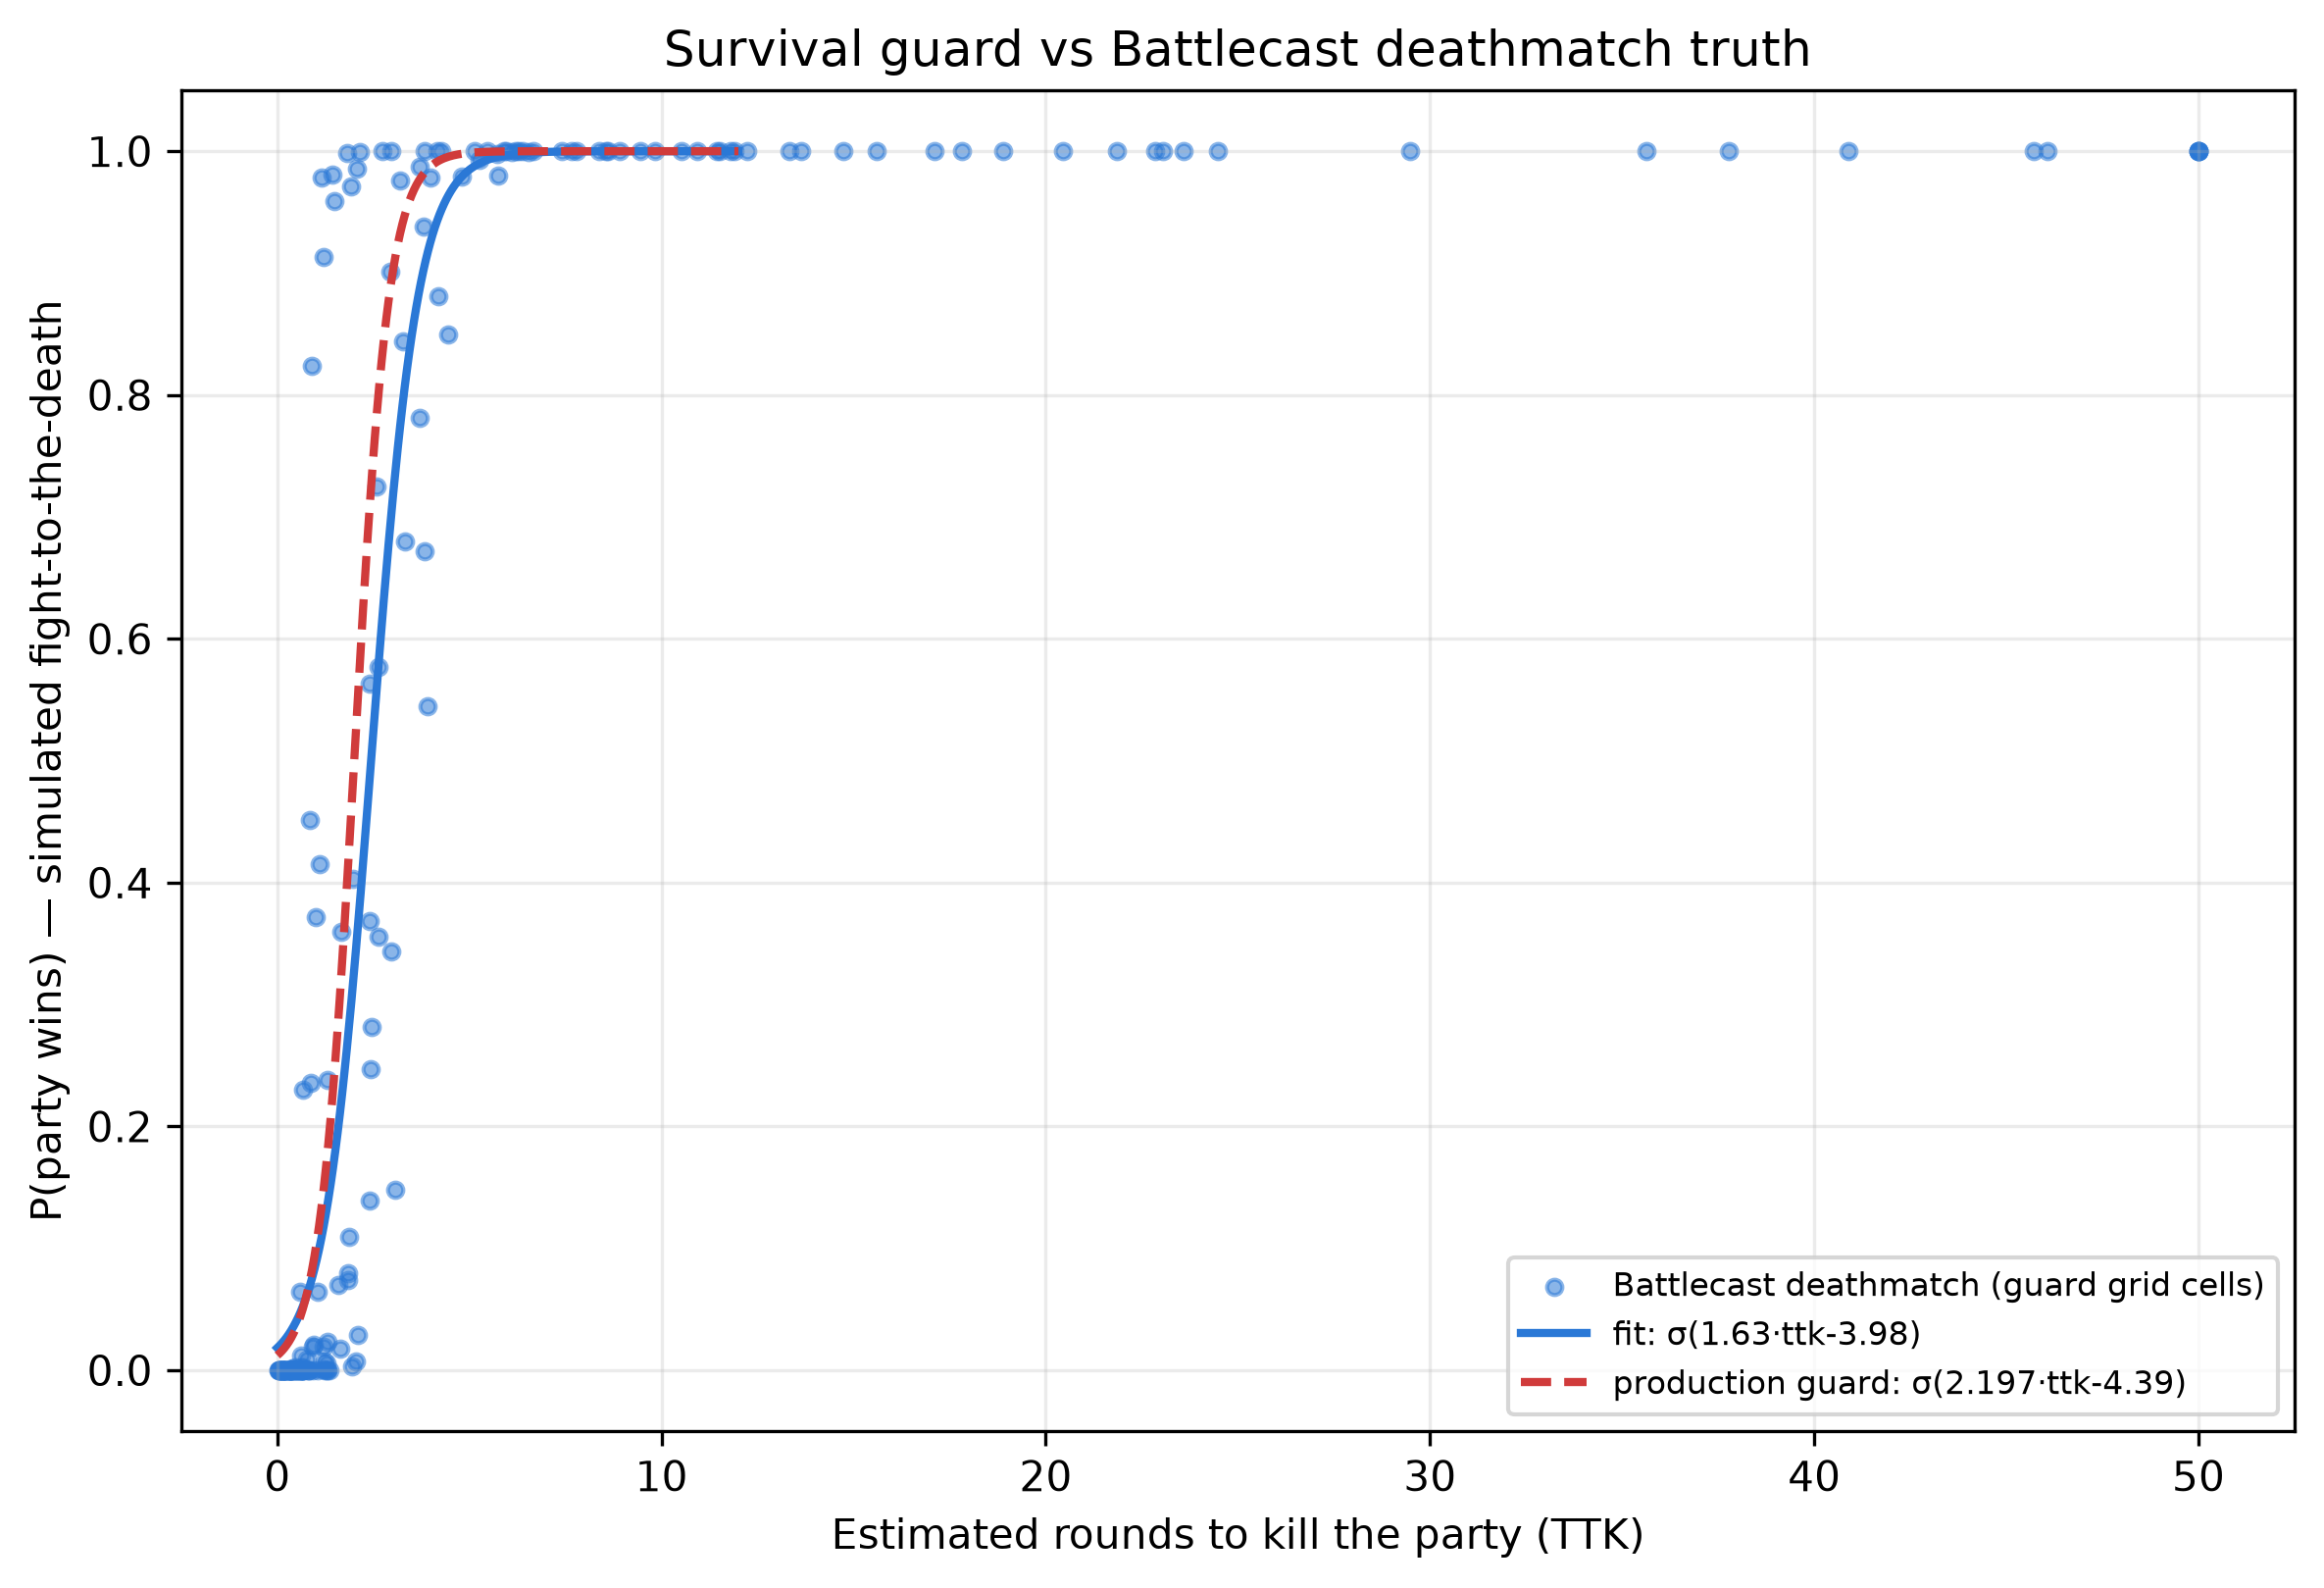
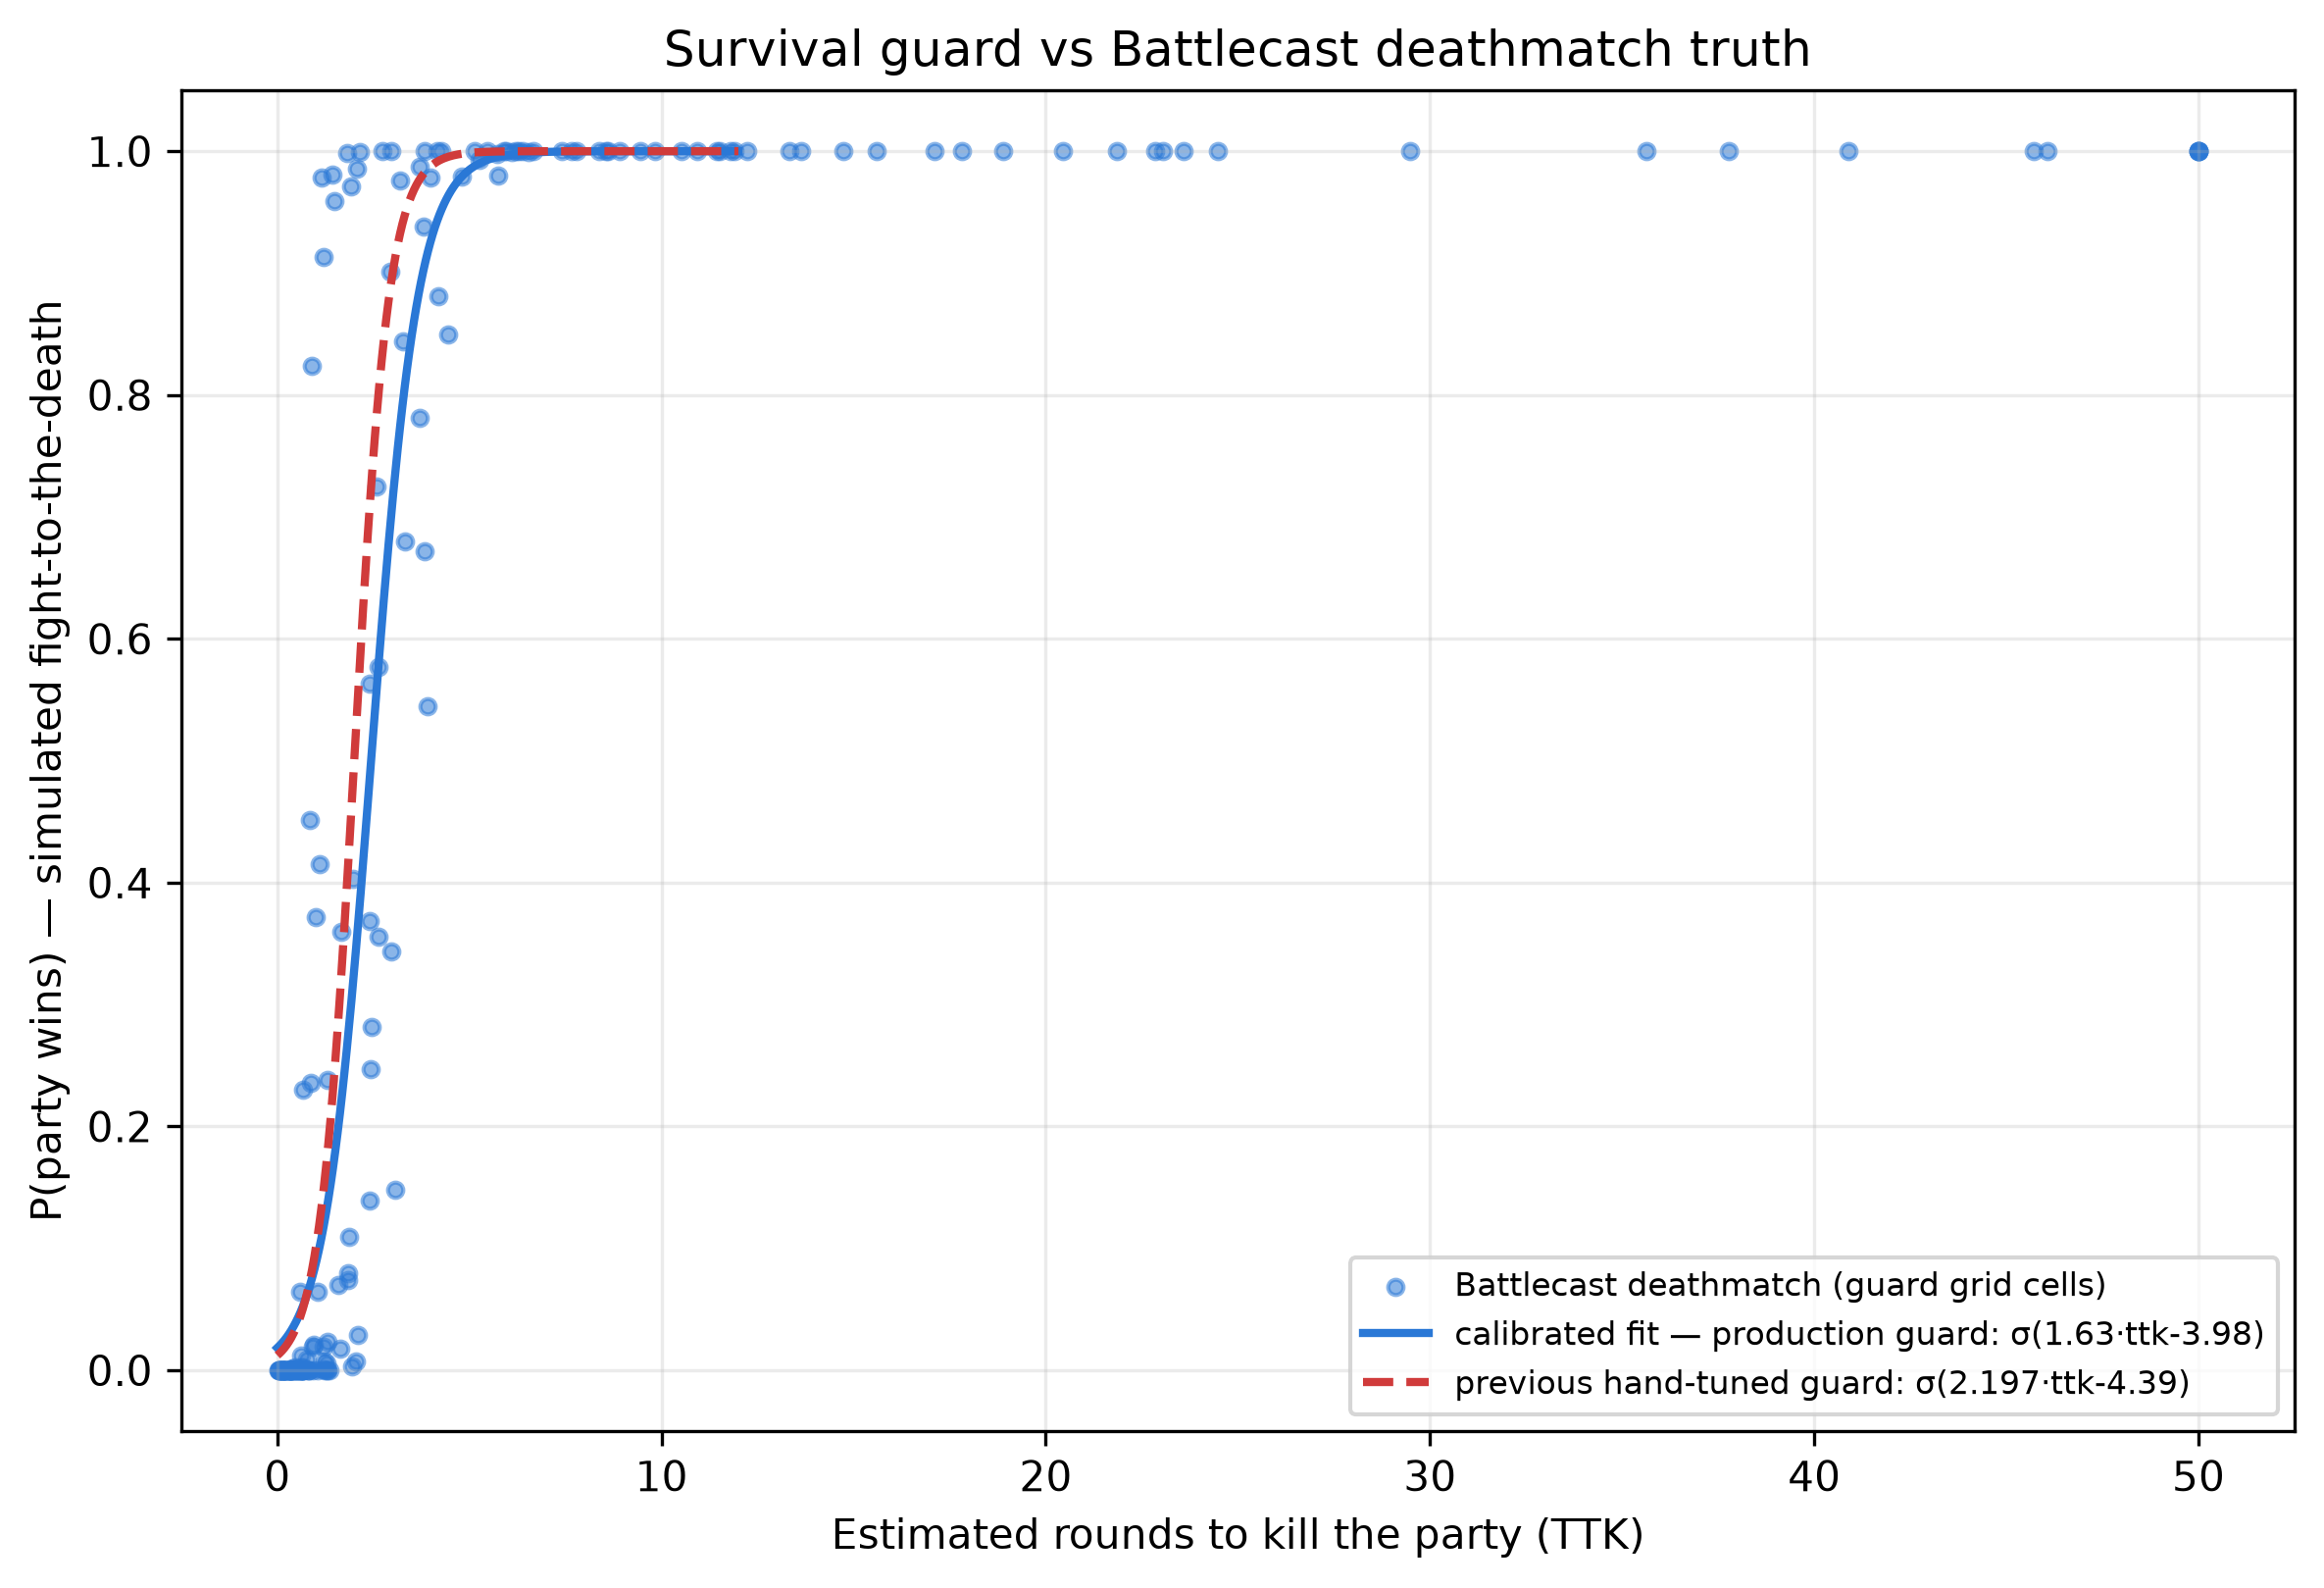
Audit pass: figure/doc consistency for the Battlecast work
- analyze.py: freeze the ORIGINAL hand-tuned guard constants as the
  historical comparison (it was importing the live production constants
  and labeling them 'hand-tuned' — after the calibration swap a rerun
  would have plotted two identical curves); add a consistency check that
  warns when production constants drift from the grid fit; regenerate
  battlecast_guard_fit.png with honest labels
- README/README_IT: correct the guard-grid CR list ({2,5,10,15,21} — the
  '180 cells' only works with 5 tiers); document the mercy and OOD grids
  honestly (systematic SRD sweep, NOT a replay of logged encounters,
  correcting the earlier commit message's claim); reference the
  previously-orphaned figures (logistic_coefficients as the confounding
  exhibit — num_monsters/total_dpr/burst positive, avg_party_level
  NEGATIVE); add a full figure index; file-structure tree now includes
  battlecast_bridge/, tests/, Makefile, behavior_suite, model_comparison
- 61 unit tests + 13 behavior checks pass

Changed region(s): [[0.562, 0.803, 0.9679, 0.8956]]

diff --git a/battlecast_bridge/analyze.py b/battlecast_bridge/analyze.py
@@ -45,8 +45,15 @@ import __main__
 import joblib
 
 from initial_learn import DnDFeatureEngineer, FEATURE_COLUMNS, RAW_INPUT_COLUMNS
-from lethality_engine import _GUARD_A as GUARD_SLOPE
-from lethality_engine import _GUARD_B as GUARD_INTERCEPT
+from lethality_engine import _GUARD_A as PRODUCTION_SLOPE
+from lethality_engine import _GUARD_B as PRODUCTION_INTERCEPT
+
+# The ORIGINAL hand-tuned anchors (pre-calibration, 2026-07-09): frozen here
+# as the historical comparison line.  Production constants now live in
+# lethality_engine and are EXPECTED to equal this script's fit — main()
+# verifies that and warns if they drift (e.g. after regenerating the grid).
+HAND_TUNED_SLOPE = 2.197
+HAND_TUNED_INTERCEPT = -4.394
 from lethality_engine import MonsterProfile, encounter_row
 
 __main__.DnDFeatureEngineer = DnDFeatureEngineer
@@ -135,13 +142,22 @@ def main() -> int:
     summary["guard_fit"] = {
         "slope": a_fit,
         "intercept": b_fit,
-        "hand_tuned_slope": GUARD_SLOPE,
-        "hand_tuned_intercept": GUARD_INTERCEPT,
+        "production_slope": PRODUCTION_SLOPE,
+        "production_intercept": PRODUCTION_INTERCEPT,
+        "original_hand_tuned_slope": HAND_TUNED_SLOPE,
+        "original_hand_tuned_intercept": HAND_TUNED_INTERCEPT,
     }
     print(
         f"Guard fit on deathmatch truth: sigma({a_fit:.3f}*ttk {b_fit:+.3f}) "
-        f"(hand-tuned: sigma({GUARD_SLOPE}*ttk {GUARD_INTERCEPT:+.3f}))"
+        f"(original hand-tuned: sigma({HAND_TUNED_SLOPE}*ttk {HAND_TUNED_INTERCEPT:+.3f}))"
     )
+    # Consistency check: the deployed constants should BE this fit.
+    if abs(a_fit - PRODUCTION_SLOPE) > 0.05 or abs(b_fit - PRODUCTION_INTERCEPT) > 0.1:
+        print(
+            f"⚠️  Production guard sigma({PRODUCTION_SLOPE}*ttk "
+            f"{PRODUCTION_INTERCEPT:+.3f}) no longer matches this fit — "
+            f"update _GUARD_A/_GUARD_B in lethality_engine.py."
+        )
 
     fig, ax = plt.subplots(figsize=(8, 5.5), dpi=300)
     ax.scatter(
@@ -158,15 +174,15 @@ def main() -> int:
         1 / (1 + np.exp(-(a_fit * xs + b_fit))),
         color=BLUE,
         lw=2,
-        label=f"fit: σ({a_fit:.2f}·ttk{b_fit:+.2f})",
+        label=f"calibrated fit — production guard: σ({a_fit:.2f}·ttk{b_fit:+.2f})",
     )
     ax.plot(
         xs,
-        1 / (1 + np.exp(-(GUARD_SLOPE * xs + GUARD_INTERCEPT))),
+        1 / (1 + np.exp(-(HAND_TUNED_SLOPE * xs + HAND_TUNED_INTERCEPT))),
         color=RED,
         lw=2,
         ls="--",
-        label=f"production guard: σ({GUARD_SLOPE}·ttk{GUARD_INTERCEPT:+.2f})",
+        label=f"previous hand-tuned guard: σ({HAND_TUNED_SLOPE}·ttk{HAND_TUNED_INTERCEPT:+.2f})",
     )
     ax.set_xlabel("Estimated rounds to kill the party (TTK)")
     ax.set_ylabel("P(party wins) — simulated fight-to-the-death")

diff --git a/README.md b/README.md
@@ -107,14 +107,19 @@ python3 fair_fight_finder.py
 ├── 📄 lethality_engine.py                # Shared inference core: binary search, party sweeps, win curves.
 ├── 📄 app.py                             # Streamlit web app (Plotly win curves, size×level heatmap).
 ├── 📄 fair_fight_finder.py               # CLI twin of the web app.
+├── 📄 model_comparison.py                # Course benchmark: ridge logistic, RFF kernel, MMD test, GP.
+├── 📄 behavior_suite.py                  # 13 behavioral acceptance checks (domain axioms).
 ├── 📄 gan_trial.py                       # CTGAN synthetic-loss generation (leakage-guarded: fits on training campaigns only).
 ├── 📄 gan_ablation.py                    # Measures GAN balancing vs real data on the same campaign holdout.
+├── 📄 Makefile                           # One-command pipeline: make retrain / battlecast / app / help.
+├── 📁 tests/                             # 61 pytest units: parsing regexes, feature math, book math, guard.
+├── 📁 battlecast_bridge/                 # Deathmatch simulation grids: vendored engine, collector, analysis.
 ├── 📄 true_lethality_model.pkl           # Exported, self-contained calibrated pipeline.
 ├── 📄 monster_offense_stats.csv          # Per-monster DPR / attack bonus / save DC table (generated).
 ├── 📄 clean_aggregated_combat_data.csv   # ~35,000 real-world encounters with traits + offense (generated).
 ├── 📄 Monster Spreadsheet - Official.csv # Master list of official D&D 5e monsters.
 ├── 📄 srd_5e_monsters.json               # SRD statblocks (source of parsed offensive stats).
-└── 📁 figures/                           # SHAP summary, calibration curve, importances, metrics.json.
+└── 📁 figures/                           # All figures + machine-readable results (see figure index below).
 ```
 
 ---
@@ -136,7 +141,12 @@ The mercy problem cuts deepest where the model needs data most: in fights the da
 P(win) ≤ sigmoid(1.630 · rounds_to_kill_party − 3.977)
 ```
 
-The constants are **calibrated against external deathmatch simulation**, not hand-tuned: a logistic fit of simulated P(win) on `rounds_to_kill_party` over a 180-cell Battlecast grid (boss CR {5,10,15,21} × count {1…19} × party level {1…20}, 2,000 Monte Carlo trials per cell — `battlecast_bridge/`, `figures/battlecast_guard_fit.png`). Fitted caps: 1 round of survival → 9%, 2 rounds → 33%, 3 rounds → 71%; inert above ~3.7 rounds where the model's own ceiling takes over — i.e. everywhere the training data is trustworthy. (The original hand-tuned anchors 0.10/0.50/0.90 proved slightly too generous in the 2–3-round zone.) The cap uses the same feature math the model trains on, is smooth, monotone in level, and decreasing in roster damage, so every engine guarantee (binary-search validity, count monotonicity, roster dominance) survives. Result: 1 Lich → level 3.25, 2 → 6.75, 4 → 12.75, **8+ → beyond deadly**. Pinned by `tests/test_survival_guard.py` and `behavior_suite.py` check 3b.
+The constants are **calibrated against external deathmatch simulation**, not hand-tuned: a binomial-weighted logistic fit of simulated P(win) on `rounds_to_kill_party` over a 180-cell Battlecast grid (boss CR {2, 5, 10, 15, 21} × count {1, 2, 4, 8, 12, 19} × party level {1, 5, 9, 13, 17, 20}, 2,000 Monte Carlo trials per cell — `battlecast_bridge/`, `figures/battlecast_guard_fit.png`). Fitted caps: 1 round of survival → 9%, 2 rounds → 33%, 3 rounds → 71%; inert above ~3.7 rounds where the model's own ceiling takes over — i.e. everywhere the training data is trustworthy. (The original hand-tuned anchors 0.10/0.50/0.90 proved slightly too generous in the 2–3-round zone.) The cap uses the same feature math the model trains on, is smooth, monotone in level, and decreasing in roster damage, so every engine guarantee (binary-search validity, count monotonicity, roster dominance) survives. Result: 1 Lich → level 3.25, 2 → 6.75, 4 → 12.75, **8+ → beyond deadly**. Pinned by `tests/test_survival_guard.py` and `behavior_suite.py` check 3b.
+
+Two companion grids ran alongside the calibration (all three: 304 cells, ~490k simulated battles, `make battlecast` to reproduce):
+
+- **Mercy grid** (25 SRD monsters spanning CR 0–10 × party levels {3, 7, 11, 15}, single monster vs a balanced party of 4 — a systematic sweep, *not* a replay of specific logged encounters): pairing the model's table-reality predictions with Battlecast's deathmatch truth quantifies the mercy/selection gap in both directions — the model sits **~0.14 below** the simulator on deathmatch-easy fights (the FIREBALL base-rate ceiling: retreats and mislabels) and **~0.32 above** it on hard fights (DM mercy inflation), correlation 0.845 (`figures/battlecast_mercy_gap.png`; the hard-fight bins hold only a few cells, so that +0.32 is directional, not precise).
+- **OOD grid** (HP ×{1, 5, 20} / AC +{0, 8} clones of a CR-5 monster × counts × levels, 24 cells): the simulator confirms the extreme verdicts — the ×20-HP clones win ≈ 0.000–0.003 of deathmatches, matching our "beyond deadly" — while mid-range fine ordering agrees only moderately (Spearman 0.54). Fair summary: OOD *verdicts* validated, OOD *fine ranking* beyond either system's resolution.
 
 ### The model-selection lesson (prediction ≠ decision)
 
@@ -148,7 +158,7 @@ The course benchmark (`model_comparison.py`, campaign-grouped 4-fold CV) produce
 | RFF kernel logistic (Lec 06) | 0.621 ± 0.010 | 0.1424 |
 | XGBoost, monotone-constrained (production) | 0.616 ± 0.035 | 0.1398 |
 
-The penalized *linear* model wins on observational predictive risk — the engineered combat-math features carry the signal, and the flexible tree model overfits campaign idiosyncrasies ("small is the new big"). **And yet it is deliberately not the production model.** When promoted, it rated 8 Liches as *trivial* and a 10,000-HP monster as beatable: with no shape constraints, the linear fit absorbs DM-curation confounding (in real logs, many-monster fights are weak mobs that parties beat, so the monster-count coefficient comes out *positive*). The app asks **interventional** questions — "same monster, more of them" — and the monotone-constrained XGBoost, though ~0.04 AUC worse observationally, is the only candidate whose counterfactual sweeps respect domain physics. We accept the predictive-risk penalty to buy decision-grade behavior.
+The penalized *linear* model wins on observational predictive risk — the engineered combat-math features carry the signal, and the flexible tree model overfits campaign idiosyncrasies ("small is the new big"). **And yet it is deliberately not the production model.** When promoted, it rated 8 Liches as *trivial* and a 10,000-HP monster as beatable: with no shape constraints, the linear fit absorbs DM-curation confounding (in real logs, many-monster fights are weak mobs that parties beat, so the monster-count coefficient comes out *positive*). The app asks **interventional** questions — "same monster, more of them" — and the monotone-constrained XGBoost, though ~0.04 AUC worse observationally, is the only candidate whose counterfactual sweeps respect domain physics. We accept the predictive-risk penalty to buy decision-grade behavior. The confounding is on full display in `figures/logistic_coefficients.png` (the rejected model's standardized log-odds): `num_monsters`, `total_monster_dpr` and `max_monster_burst` all carry **positive** coefficients, and — most damning — `avg_party_level` comes out **negative**: the unconstrained fit learned "higher-level parties lose more," because higher-level parties face harder curated content. Textbook selection confounding, readable directly off the coefficients.
 
 ### Synthetic data ablation — when (not) to use `gan_balanced_combat_data.csv`
 
@@ -166,6 +176,21 @@ Two further course-toolbox results (`figures/course_benchmark.json`):
 - **Gaussian Process CR predictor (Lec 06 pt 4)**: GP (RBF + White kernel) beats XGBoost on the 797-monster CR task — MAE 0.88 vs 0.90, R² 0.954 — with 95% predictive intervals achieving exactly **0.95 empirical coverage**.
 
 ---
+
+### Figure index (`figures/`)
+
+| Figure | What it shows |
+|---|---|
+| `shap_summary.png` + `shap_ranking.csv` | Native TreeSHAP beeswarm: which features drive P(win) and in which direction |
+| `feature_importance.png` | XGBoost gain importance (the coarser cousin of SHAP) |
+| `calibration_curve.png` | Predicted vs observed win frequency on held-out campaigns |
+| `feature_correlation_heatmap.png` | Spearman correlations among engineered features (collinearity check) |
+| `win_rate_vs_cr_ratio.png` | Empirical win rate vs normalized challenge, binned, with model overlay |
+| `model_comparison.png` + `.csv` | Course model zoo vs production under grouped CV |
+| `logistic_coefficients.png` | The rejected ridge logistic's coefficients — the confounding exhibit |
+| `battlecast_guard_fit.png` | Deathmatch grid + fitted survival guard vs the old hand-tuned one |
+| `battlecast_mercy_gap.png` | Model (table reality) vs simulator (deathmatch): the mercy/selection gap |
+| `metrics.json` / `experiments.jsonl` / `course_benchmark.json` / `battlecast_summary.json` / `gan_ablation.json` | Machine-readable results: latest run, append-only history, benchmarks |
 
 ## 🎓 Course-Concept Map (SL2026)
 

diff --git a/README_IT.md b/README_IT.md
@@ -195,7 +195,11 @@ Il modello impara dai dati; queste tre guardie gli impediscono di dire sciocchez
 
 1. **Vincoli monotoni + clipping OOD** — dentro XGBoost ogni feature ha un segno imposto (più livello ⇒ mai peggio; più DPR nemico ⇒ mai meglio) e gli input vengono riportati nelle bande legali di 5e (AC 10–30, HP ≤ limiti, livello 1–20…). Un mostro homebrew da 10.000 HP degrada con grazia a "beyond deadly" invece di mandare in tilt gli alberi.
 2. **Dominanza del roster** — negli incontri misti le medie pesate possono "diluire" (Lich + 6 goblin ha CR medio più basso del Lich da solo). Assioma: *aggiungere mostri non può mai rendere lo scontro più facile*. Il motore valuta anche ogni sotto-roster omogeneo e tiene il **minimo** delle probabilità.
-3. **Guardia fisica di sopravvivenza** — la scoperta più importante del progetto: nei log reali persino gli scontri matematicamente senza speranza (party eliminato in ≤1 round) risultano "vinti" l'**84,5%** delle volte — è la *misericordia del DM* (dadi truccati, ritirate, rinforzi). Nessun modello addestrato su quei dati può rispondere a "e se combattessimo 19 Lich **fino alla morte**?". Perciò: `P(win) ≤ sigmoide(1,630 · round_per_uccidere_il_party − 3,977)` — con i coefficienti **calibrati su simulazione esterna di deathmatch** (griglia Battlecast da 180 celle × 2.000 prove Monte Carlo ciascuna, regressione logistica della P(win) simulata sui round di sopravvivenza — vedi `battlecast_bridge/` e `figures/battlecast_guard_fit.png`): party eliminato in 1 round ⇒ tetto 9%, in 2 round ⇒ 33%, in 3 ⇒ 71%, e la guardia è **inerte** sopra ~3,7 round, cioè ovunque i dati di addestramento siano affidabili. (Le ancore originali scelte a mano — 10%/50%/90% — risultavano troppo generose nella zona dei 2–3 round.) Risultato: 1 Lich → livello 3,25 · 2 → 6,75 · 4 → 12,75 · **8+ → beyond deadly**.
+3. **Guardia fisica di sopravvivenza** — la scoperta più importante del progetto: nei log reali persino gli scontri matematicamente senza speranza (party eliminato in ≤1 round) risultano "vinti" l'**84,5%** delle volte — è la *misericordia del DM* (dadi truccati, ritirate, rinforzi). Nessun modello addestrato su quei dati può rispondere a "e se combattessimo 19 Lich **fino alla morte**?". Perciò: `P(win) ≤ sigmoide(1,630 · round_per_uccidere_il_party − 3,977)` — con i coefficienti **calibrati su simulazione esterna di deathmatch** (griglia Battlecast da 180 celle: CR boss {2, 5, 10, 15, 21} × numero {1…19} × livello party {1…20}, 2.000 prove Monte Carlo per cella; regressione logistica pesata della P(win) simulata sui round di sopravvivenza — vedi `battlecast_bridge/` e `figures/battlecast_guard_fit.png`): party eliminato in 1 round ⇒ tetto 9%, in 2 round ⇒ 33%, in 3 ⇒ 71%, e la guardia è **inerte** sopra ~3,7 round, cioè ovunque i dati di addestramento siano affidabili. (Le ancore originali scelte a mano — 10%/50%/90% — risultavano troppo generose nella zona dei 2–3 round.) Risultato: 1 Lich → livello 3,25 · 2 → 6,75 · 4 → 12,75 · **8+ → beyond deadly**.
+
+Accanto alla calibrazione sono state eseguite altre due griglie (in totale 304 celle, ~490.000 battaglie simulate, riproducibili con `make battlecast`):
+- **Griglia "misericordia"** (25 mostri SRD da CR 0 a 10 × livelli {3, 7, 11, 15}, mostro singolo contro party bilanciato di 4 — una scansione sistematica, *non* il replay di incontri realmente registrati): confrontando le previsioni del modello (realtà del tavolo) con la verità deathmatch di Battlecast, il divario di misericordia risulta **bidirezionale**: il modello sta ~0,14 *sotto* il simulatore negli scontri facili (il tetto dell'83% di FIREBALL: ritirate ed etichette rumorose) e ~0,32 *sopra* negli scontri difficili (l'inflazione da misericordia del DM), correlazione 0,845 — `figures/battlecast_mercy_gap.png` (poche celle nei bin difficili: il +0,32 è indicativo, non preciso).
+- **Griglia OOD** (cloni di un mostro CR 5 con HP ×{1, 5, 20} e AC +{0, 8}, 24 celle): il simulatore conferma i verdetti estremi — i cloni con HP ×20 vincono ≈ 0,000–0,003 dei deathmatch, coerente col nostro "beyond deadly" — mentre l'ordinamento fine di metà scala concorda solo moderatamente (Spearman 0,54).
 
 ---
 
@@ -234,6 +238,21 @@ Il modello impara dai dati; queste tre guardie gli impediscono di dire sciocchez
 ```
 
 Perché due interfacce non divergono mai: **tutta** la logica di simulazione vive in `lethality_engine.py`; `app.py` e `fair_fight_finder.py` la importano soltanto.
+
+### Indice delle figure (`figures/`)
+
+| Figura | Cosa mostra |
+|---|---|
+| `shap_summary.png` + `shap_ranking.csv` | SHAP nativo: quali feature guidano la P(win) e in che direzione |
+| `feature_importance.png` | Importanza per gain di XGBoost |
+| `calibration_curve.png` | Probabilità previste vs frequenze osservate su campagne held-out |
+| `feature_correlation_heatmap.png` | Correlazioni di Spearman tra le feature (controllo collinearità) |
+| `win_rate_vs_cr_ratio.png` | Tasso di vittoria empirico vs difficoltà normalizzata, con overlay del modello |
+| `model_comparison.png` + `.csv` | Benchmark del corso vs modello di produzione (CV raggruppata) |
+| `logistic_coefficients.png` | I coefficienti della logistica scartata — la "prova" del confondimento (livello del party col segno sbagliato) |
+| `battlecast_guard_fit.png` | Griglia deathmatch + guardia calibrata vs quella scelta a mano |
+| `battlecast_mercy_gap.png` | Modello (tavolo reale) vs simulatore (deathmatch): il divario di misericordia |
+| `metrics.json` / `experiments.jsonl` / `course_benchmark.json` / `battlecast_summary.json` / `gan_ablation.json` | Risultati leggibili da macchina: ultima run, storico append-only, benchmark |
 
 ---
 